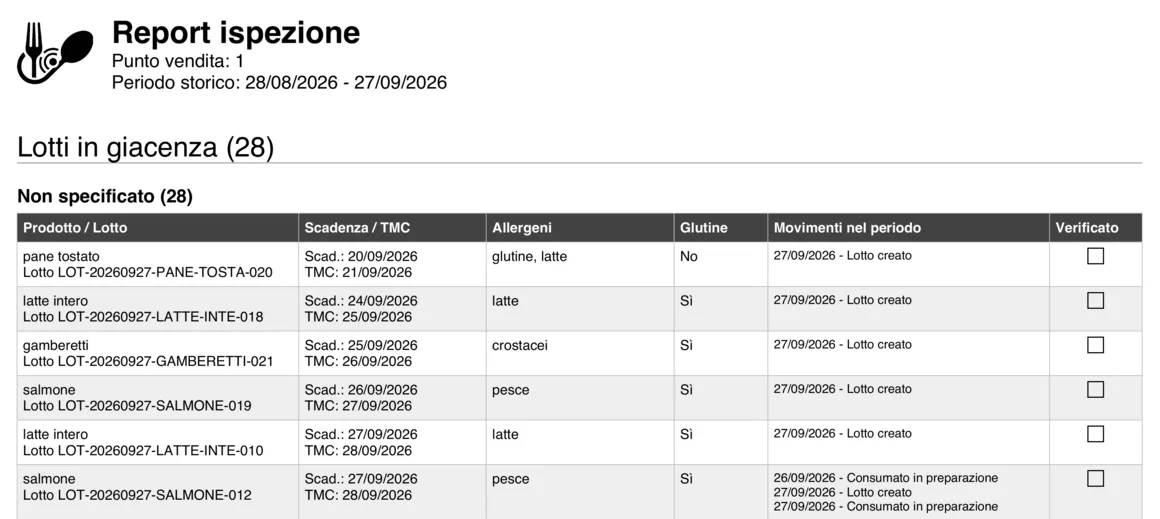
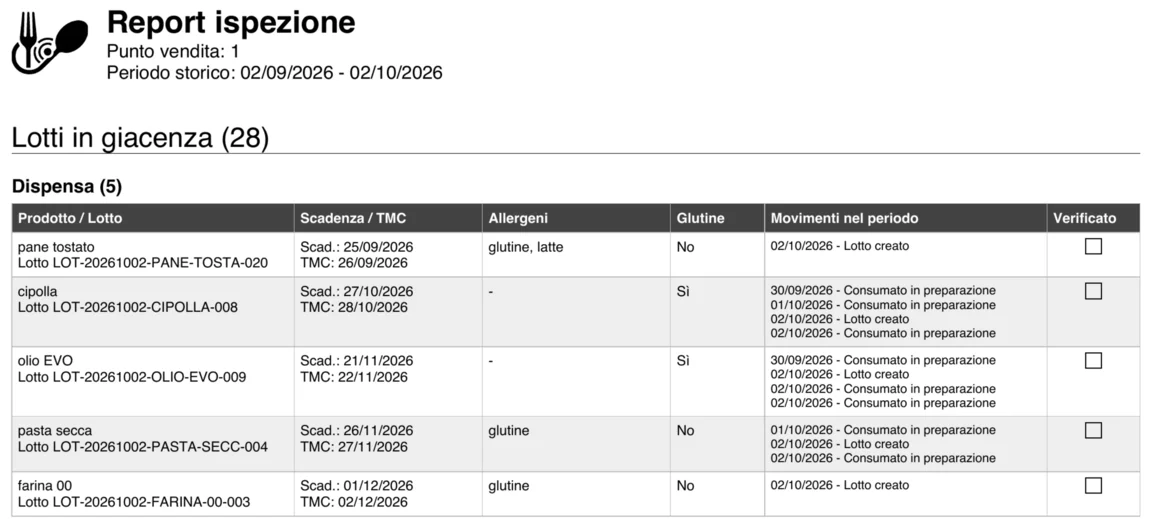
feat: temperature e pulizie nel sito, nuovo report ispezione e screenshot aggiornati

diff --git a/site/index.html b/site/index.html
@@ -41,7 +41,7 @@
       "applicationCategory": "BusinessApplication",
       "operatingSystem": "Android, Web",
       "inLanguage": "it",
-      "description": "Software HACCP per la ristorazione professionale: registrazione di lotti e scadenze, lettura delle etichette con AI, preparazioni con calcolo del TMC, stampa di etichette HACCP, badge NFC per gli operatori, notifiche di scadenza, report PDF per l'ispezione e gestione di più locali con dati separati.",
+      "description": "Software HACCP per la ristorazione professionale: registrazione di lotti e scadenze, lettura delle etichette con AI, preparazioni con calcolo del TMC, stampa di etichette HACCP, badge NFC per gli operatori, registro delle temperature con controlli programmati, routine di pulizia, notifiche di scadenza, report PDF per l'ispezione e gestione di più locali con dati separati.",
       "publisher": { "@id": "https://restrackit.it/#org" },
       "offers": {
         "@type": "Offer",
@@ -53,13 +53,14 @@
     {
       "@type": "FAQPage",
       "mainEntity": [
-        { "@type": "Question", "name": "Cos'è Restrackit?", "acceptedAnswer": { "@type": "Answer", "text": "Restrackit è un software HACCP per cucine professionali, composto da un'app Android per tablet e da una piattaforma web. Serve a registrare lotti e scadenze, stampare etichette HACCP e avere i dati pronti per un'ispezione." } },
+        { "@type": "Question", "name": "Cos'è Restrackit?", "acceptedAnswer": { "@type": "Answer", "text": "Restrackit è un software HACCP per cucine professionali, composto da un'app Android per tablet e da una piattaforma web. Serve a registrare lotti e scadenze, controllare temperature e pulizie, stampare etichette HACCP e avere i dati pronti per un'ispezione." } },
         { "@type": "Question", "name": "Funziona per chi gestisce più locali?", "acceptedAnswer": { "@type": "Answer", "text": "Sì. Ogni locale ha i propri dati, separati dagli altri, e dall'app si passa da un locale all'altro con un selettore." } },
         { "@type": "Question", "name": "Su quali dispositivi funziona?", "acceptedAnswer": { "@type": "Answer", "text": "Su tablet Android: l'app è pensata per il tablet della cucina, usato in orizzontale. Funziona anche su smartphone Android, e i controlli si possono fare dalla piattaforma web." } },
         { "@type": "Question", "name": "Come funziona la lettura delle etichette con l'AI?", "acceptedAnswer": { "@type": "Answer", "text": "Si inquadra l'etichetta del fornitore e l'app propone prodotto, lotto e scadenza. L'operatore controlla e conferma: nessun dato viene salvato senza conferma." } },
         { "@type": "Question", "name": "Serve una stampante?", "acceptedAnswer": { "@type": "Answer", "text": "Serve solo per stampare le etichette HACCP. Durante il pilota la stampante è fornita in comodato d'uso." } },
         { "@type": "Question", "name": "A cosa servono i badge NFC?", "acceptedAnswer": { "@type": "Answer", "text": "Sul tablet condiviso della cucina ogni operatore passa al proprio profilo avvicinando il badge, oppure con un PIN. Così ogni registrazione è attribuita a chi l'ha fatta, senza digitare password in servizio." } },
-        { "@type": "Question", "name": "Cosa mostro durante un'ispezione?", "acceptedAnswer": { "@type": "Answer", "text": "Un report PDF generato dall'app. Contiene i lotti in giacenza con scadenza, TMC, allergeni e movimenti, e le preparazioni con i lotti usati." } },
+        { "@type": "Question", "name": "Gestisce anche temperature e pulizie?", "acceptedAnswer": { "@type": "Answer", "text": "Sì. Ogni punto di misura (frigo, cella, abbattitore) ha i suoi controlli di temperatura a orari programmati, e le routine di pulizia hanno i loro orari limite. Dal tablet si registra una lettura o si segna una pulizia come fatta, e ogni voce è attribuita all'operatore." } },
+        { "@type": "Question", "name": "Cosa mostro durante un'ispezione?", "acceptedAnswer": { "@type": "Answer", "text": "Un report PDF generato dall'app. Contiene i lotti in giacenza con scadenza, TMC, allergeni e movimenti, le preparazioni con i lotti usati, le letture di temperatura e le pulizie eseguite." } },
         { "@type": "Question", "name": "Quanto costa dopo il pilota?", "acceptedAnswer": { "@type": "Answer", "text": "Si paga un canone annuale per locale, definito in base al numero di locali. Il pilota è gratuito e non si rinnova da solo: decidi tu se continuare." } },
         { "@type": "Question", "name": "Cosa succede ai miei dati se non continuo?", "acceptedAnswer": { "@type": "Answer", "text": "Ricevi l'export dei tuoi dati in PDF. Su richiesta cancelliamo i dati del tuo account." } },
         { "@type": "Question", "name": "Chi può candidarsi come cucina pilota?", "acceptedAnswer": { "@type": "Answer", "text": "Qualsiasi cucina professionale in Italia: ristoranti, catene e franchising, mense, catering, bar e punti ristoro. Diamo precedenza a chi gestisce più locali." } }
@@ -96,7 +97,7 @@
       </div>
       <figure>
         <img class="shot" src="/img/report-ispezione-1160.webp" srcset="/img/report-ispezione-800.webp 800w, /img/report-ispezione-1160.webp 1160w, /img/report-ispezione-2320.webp 2320w" sizes="(max-width: 1192px) calc(100vw - 32px), 1160px" width="2320" height="1038" fetchpriority="high"
-             alt="Prima pagina di un report ispezione generato da Restrackit: lotti in giacenza con scadenza, TMC, allergeni e movimenti.">
+             alt="Prima pagina di un report ispezione generato da Restrackit: lotti in giacenza con scadenza, TMC, allergeni e movimenti, raggruppati per conservazione.">
         <figcaption>Il report per l'ispezione, generato dall'app (dati di esempio).</figcaption>
       </figure>
     </div>
@@ -141,7 +142,7 @@
           </div>
           <div>
             <h3>Registra il lotto all'arrivo</h3>
-            <p>Inquadri l'etichetta del fornitore con il tablet della cucina: l'AI legge lotto e scadenza, tu confermi con un tap. L'operatore si identifica con il badge NFC.</p>
+            <p>Inquadri l'etichetta del fornitore con la fotocamera dell'app, in un solo tap: l'AI legge lotto e scadenza, tu confermi con un tap. L'operatore si identifica con il badge NFC.</p>
           </div>
         </div>
         <div class="step">
@@ -155,7 +156,34 @@
           <img class="crop" src="/img/passo-scadenze-700.webp" srcset="/img/passo-scadenze-700.webp 700w, /img/passo-scadenze-1400.webp 1400w" sizes="(max-width: 800px) calc(100vw - 32px), 560px" width="1400" height="545" loading="lazy" decoding="async"
                alt="Elenco dei lotti nell'app: le uova e l'insalata di pollo preparata sono segnate come Scaduto, l'insalata mista come In scadenza, i pomodori non hanno segnalazioni.">
           <h3>Arriva l'ispezione? Sei già pronto.</h3>
-          <p>Le notifiche ti avvisano prima che un lotto scada. Quando serve, il report PDF raccoglie lotti, scadenze, allergeni e movimenti del periodo.</p>
+          <p>Le notifiche ti avvisano prima che un lotto scada. Quando serve, il report PDF raccoglie lotti, scadenze, allergeni, movimenti, temperature e pulizie del periodo.</p>
+        </div>
+      </div>
+    </div>
+  </section>
+
+  <section id="controlli">
+    <div class="wrap">
+      <h2>Non solo lotti: temperature e pulizie</h2>
+      <p class="muted">Gli stessi controlli che oggi fai su carta, nella stessa app del tablet.</p>
+      <div class="steps">
+        <div class="step">
+          <img class="crop" src="/img/temperature-da-fare-1400.webp" srcset="/img/temperature-da-fare-700.webp 700w, /img/temperature-da-fare-1400.webp 1400w" sizes="(max-width: 800px) calc(100vw - 32px), 560px" width="1400" height="498" loading="lazy" decoding="async"
+               alt="Schermata Temperature dell'app, scheda Da fare: congelatore e frigo cucina con la lettura delle 08:00 già registrata e il controllo delle 18:00 ancora previsto.">
+          <h3>Registro delle temperature</h3>
+          <p>Definisci i punti di misura (frigo, congelatore, abbattitore) con il loro intervallo e gli orari dei controlli. Il tablet mostra cosa va misurato oggi; l'operatore inserisce il valore e la lettura resta nel registro.</p>
+        </div>
+        <div class="step">
+          <img class="crop" src="/img/pulizie-oggi-700.webp" srcset="/img/pulizie-oggi-700.webp 700w, /img/pulizie-oggi-1400.webp 1400w" sizes="(max-width: 800px) calc(100vw - 32px), 560px" width="1400" height="332" loading="lazy" decoding="async"
+               alt="Schermata Pulizie dell'app, scheda Oggi: sanificare i piani di lavoro entro le 22:00 e sanificare l'affettatrice, segnata in ritardo, entro le 15:00.">
+          <h3>Routine di pulizia</h3>
+          <p>Ogni routine ha un orario limite e, se è in ritardo, lo vedi subito. Chi la esegue la segna come fatta. Una guida nell'app, con tour su dati di prova, aiuta il personale nuovo.</p>
+        </div>
+        <div class="step">
+          <img class="crop" src="/img/etichetta-punto-696.webp" width="696" height="253" loading="lazy" decoding="async"
+               alt="Etichetta di un punto di misura stampata dall'app: Abbattitore, intervallo da -40 a 3 °C, con codice QR.">
+          <h3>Un'etichetta con QR per ogni punto</h3>
+          <p>Stampi l'etichetta del frigo o dell'abbattitore e la attacchi sul posto: il QR apre direttamente la lettura di quel punto.</p>
         </div>
       </div>
     </div>
@@ -229,13 +257,14 @@
   <section id="faq" class="faq">
     <div class="wrap">
       <h2>Domande frequenti</h2>
-      <details><summary>Cos'è Restrackit?</summary><p>Restrackit è un software HACCP per cucine professionali, composto da un'app Android per tablet e da una piattaforma web. Serve a registrare lotti e scadenze, stampare etichette HACCP e avere i dati pronti per un'ispezione.</p></details>
+      <details><summary>Cos'è Restrackit?</summary><p>Restrackit è un software HACCP per cucine professionali, composto da un'app Android per tablet e da una piattaforma web. Serve a registrare lotti e scadenze, controllare temperature e pulizie, stampare etichette HACCP e avere i dati pronti per un'ispezione.</p></details>
       <details><summary>Funziona per chi gestisce più locali?</summary><p>Sì. Ogni locale ha i propri dati, separati dagli altri, e dall'app si passa da un locale all'altro con un selettore.</p></details>
       <details><summary>Su quali dispositivi funziona?</summary><p>Su tablet Android: l'app è pensata per il tablet della cucina, usato in orizzontale. Funziona anche su smartphone Android, e i controlli si possono fare dalla piattaforma web.</p></details>
       <details><summary>Come funziona la lettura delle etichette con l'AI?</summary><p>Si inquadra l'etichetta del fornitore e l'app propone prodotto, lotto e scadenza. L'operatore controlla e conferma: nessun dato viene salvato senza conferma.</p></details>
       <details><summary>Serve una stampante?</summary><p>Serve solo per stampare le etichette HACCP. Durante il pilota la stampante è fornita in comodato d'uso.</p></details>
       <details><summary>A cosa servono i badge NFC?</summary><p>Sul tablet condiviso della cucina ogni operatore passa al proprio profilo avvicinando il badge, oppure con un PIN. Così ogni registrazione è attribuita a chi l'ha fatta, senza digitare password in servizio.</p></details>
-      <details><summary>Cosa mostro durante un'ispezione?</summary><p>Un report PDF generato dall'app. Contiene i lotti in giacenza con scadenza, TMC, allergeni e movimenti, e le preparazioni con i lotti usati.</p></details>
+      <details><summary>Gestisce anche temperature e pulizie?</summary><p>Sì. Ogni punto di misura (frigo, cella, abbattitore) ha i suoi controlli di temperatura a orari programmati, e le routine di pulizia hanno i loro orari limite. Dal tablet si registra una lettura o si segna una pulizia come fatta, e ogni voce è attribuita all'operatore.</p></details>
+      <details><summary>Cosa mostro durante un'ispezione?</summary><p>Un report PDF generato dall'app. Contiene i lotti in giacenza con scadenza, TMC, allergeni e movimenti, le preparazioni con i lotti usati, le letture di temperatura e le pulizie eseguite.</p></details>
       <details><summary>Quanto costa dopo il pilota?</summary><p>Si paga un canone annuale per locale, definito in base al numero di locali. Il pilota è gratuito e non si rinnova da solo: decidi tu se continuare.</p></details>
       <details><summary>Cosa succede ai miei dati se non continuo?</summary><p>Ricevi l'export dei tuoi dati in PDF. Su richiesta cancelliamo i dati del tuo account.</p></details>
       <details><summary>Chi può candidarsi come cucina pilota?</summary><p>Qualsiasi cucina professionale in Italia: ristoranti, catene e franchising, mense, catering, bar e punti ristoro. Diamo precedenza a chi gestisce più locali.</p></details>

diff --git a/site/report-ispezione-haccp.html b/site/report-ispezione-haccp.html
@@ -109,14 +109,14 @@
 <p>La sanzione per un piano di autocontrollo mancante o non applicato va da 1.000 a 6.000 € (D.Lgs. 193/2007).</p>
 
 <h2>Il report PDF di Restrackit</h2>
-<p>Dall'app generi un report che raccoglie i lotti in giacenza con scadenza, TMC, allergeni e movimenti, e le preparazioni con i lotti usati.</p>
+<p>Dall'app generi un report che raccoglie i lotti in giacenza con scadenza, TMC, allergeni e movimenti, le preparazioni con i lotti usati, le letture di temperatura (punto, valore, operatore, azione correttiva) e le pulizie eseguite.</p>
 <figure>
-  <img src="/img/report-ispezione-1160.webp" srcset="/img/report-ispezione-800.webp 800w, /img/report-ispezione-1160.webp 1160w" sizes="(max-width: 792px) calc(100vw - 32px), 760px" width="1160" height="519" loading="lazy" decoding="async" alt="Prima pagina di un report ispezione generato da Restrackit: lotti in giacenza con scadenza, TMC, allergeni e movimenti.">
+  <img src="/img/report-ispezione-1160.webp" srcset="/img/report-ispezione-800.webp 800w, /img/report-ispezione-1160.webp 1160w" sizes="(max-width: 792px) calc(100vw - 32px), 760px" width="1160" height="519" loading="lazy" decoding="async" alt="Prima pagina di un report ispezione generato da Restrackit: lotti in giacenza con scadenza, TMC, allergeni e movimenti, raggruppati per conservazione.">
   <figcaption class="muted">Il report per l'ispezione, generato dall'app (dati di esempio).</figcaption>
 </figure>
 
 <h2>Cosa non sostituisce</h2>
-<p>Restrackit copre lotti, scadenze, preparazioni ed etichette. Non sostituisce il tuo piano di autocontrollo né gli altri registri, come temperature e sanificazione.</p>
+<p>Restrackit copre lotti, scadenze, preparazioni, etichette, temperature e pulizie. Non sostituisce il tuo piano di autocontrollo né gli altri registri, come la formazione del personale.</p>
 
 <h2>Prima del controllo</h2>
 <p>Le notifiche ti avvisano prima che un lotto scada, e un lotto scaduto trovato in frigo è una contestazione. Una routine breve: controlla i lotti segnati «Scaduto» o «In scadenza», chiudi quelli finiti, e il report è già pronto.</p>

diff --git a/site/registro-lotti-carta-o-digitale.html b/site/registro-lotti-carta-o-digitale.html
@@ -115,7 +115,7 @@
 </ul>
 
 <h2>Il registro digitale non sostituisce il piano HACCP</h2>
-<p>Restrackit gestisce lotti, scadenze, preparazioni ed etichette. Il piano di autocontrollo e gli altri registri, come temperature e sanificazione, restano quelli della tua attività.</p>
+<p>Restrackit gestisce lotti, scadenze, preparazioni, etichette, temperature e pulizie. Il piano di autocontrollo e gli altri registri, come la formazione del personale, restano quelli della tua attività.</p>
 
 <h2>Domande frequenti</h2>
 <h3>Il registro digitale è valido in caso di ispezione?</h3>
